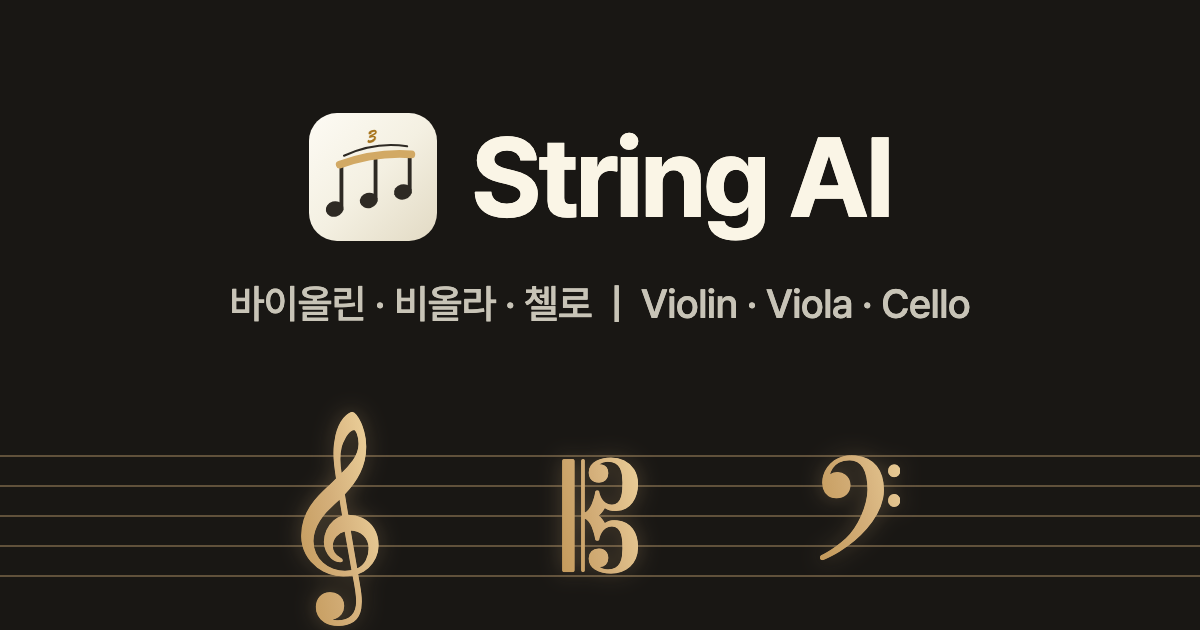
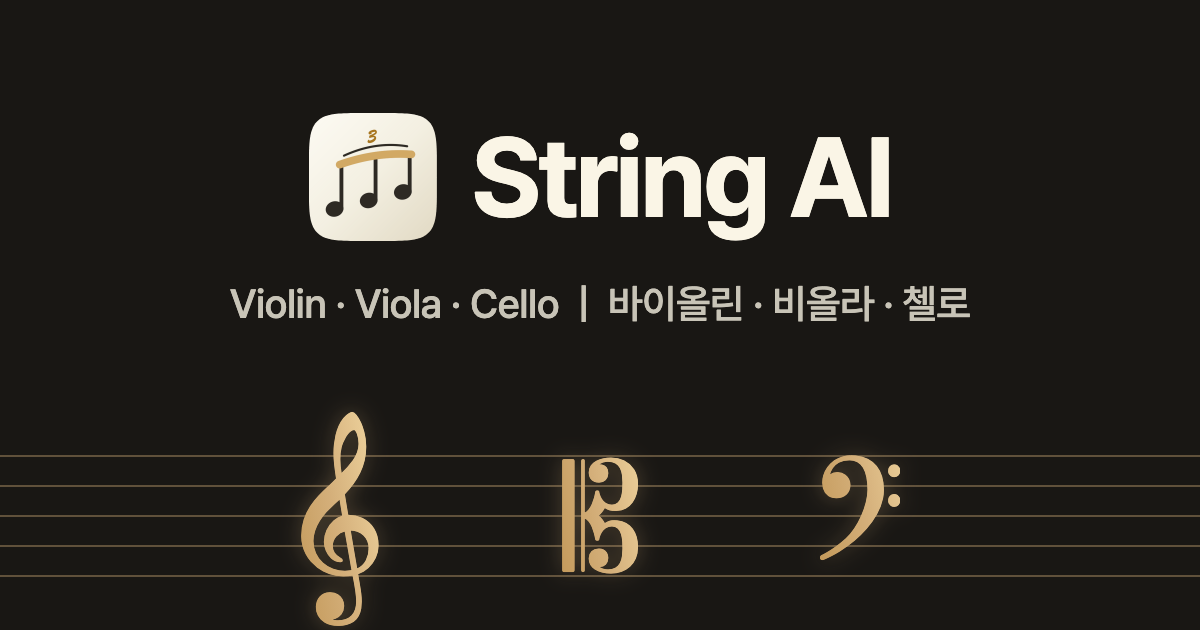
copy(site): 1.0.4 준비본 검색 설명·링크 미리보기 영어 먼저, 링크 미리보기 그림도 영어 먼저 + 진짜 앱 아이콘 - 사용자 11-06 '영어가 메인', 푸시 안 함

Changed region(s): [[0.185, 0.4524, 0.8325, 0.5127]]

diff --git a/index.html b/index.html
@@ -4,17 +4,17 @@
 <meta charset="utf-8">
 <meta name="viewport" content="width=device-width, initial-scale=1">
 <title>String AI</title>
-<meta name="description" content="바이올린·비올라·첼로 연습을 돕는 String AI. 연주 피드백, 비브라토·청음·이론·음악사 클래스, 내 악보와 선생님 숙제.">
+<meta name="description" content="String AI helps you practice violin, viola and cello: playing feedback, vibrato, ear training, theory and music history classes, your own printed parts and teacher homework. 바이올린·비올라·첼로 연습을 돕는 String AI.">
 <!-- Link preview for messengers. The preview cannot switch language, so the description carries both, in the page's own reviewed lines. -->
 <meta property="og:type" content="website">
 <meta property="og:site_name" content="String AI">
 <meta property="og:title" content="String AI">
-<meta property="og:description" content="바이올린·비올라·첼로 연습을 돕는 String AI. Choose a passage, play, and review feedback after the take.">
+<meta property="og:description" content="Choose a passage, play, and review feedback after the take. 바이올린·비올라·첼로 연습을 돕는 String AI.">
 <meta property="og:url" content="https://stringaiapp.com/">
 <meta property="og:image" content="https://stringaiapp.com/assets/og-card.png">
 <meta property="og:image:width" content="1200">
 <meta property="og:image:height" content="630">
-<meta property="og:image:alt" content="String AI: 바이올린 · 비올라 · 첼로 | Violin · Viola · Cello">
+<meta property="og:image:alt" content="String AI: Violin · Viola · Cello | 바이올린 · 비올라 · 첼로">
 <meta name="twitter:card" content="summary_large_image">
 <link rel="stylesheet" as="style" crossorigin href="https://cdn.jsdelivr.net/gh/orioncactus/pretendard@v1.3.9/dist/web/variable/pretendardvariable-dynamic-subset.min.css">
 <link rel="icon" href="assets/screenshots/icon.ecf6ef3f0778.png">
